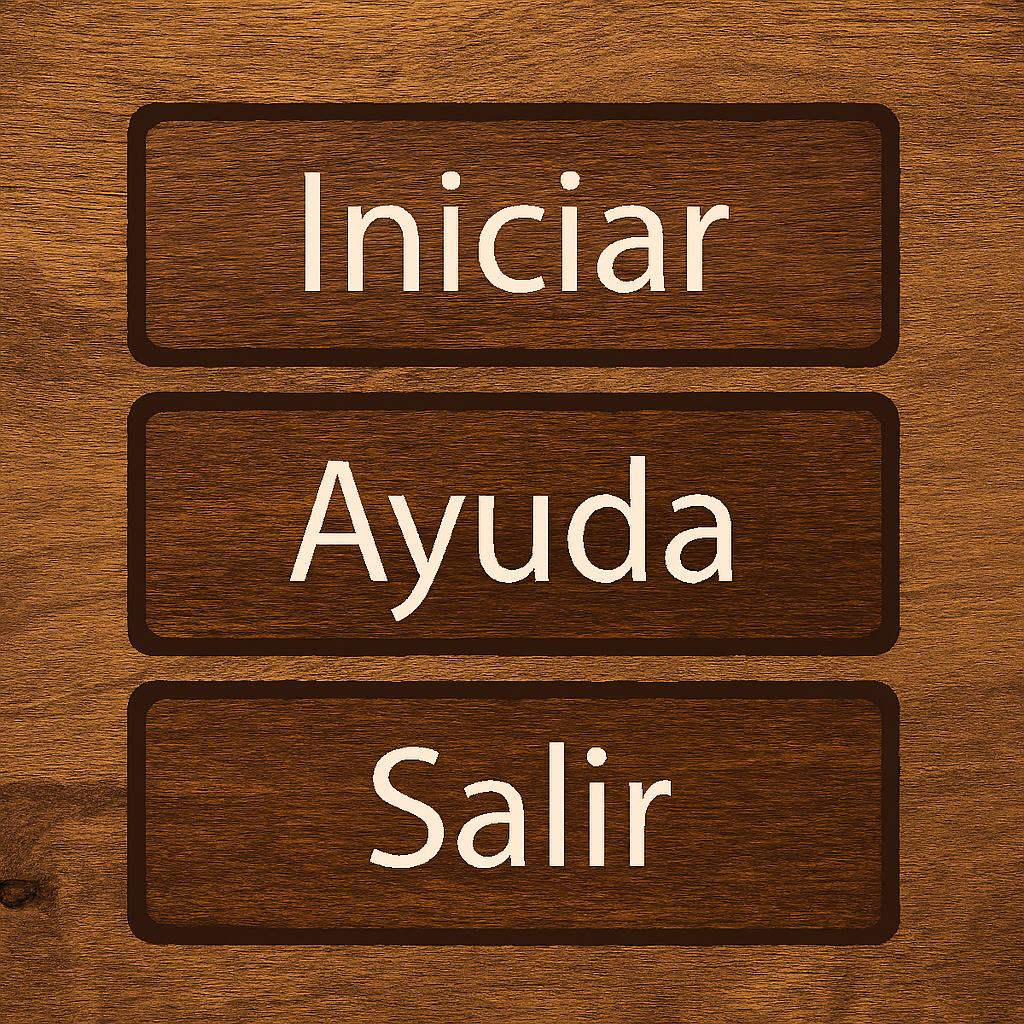
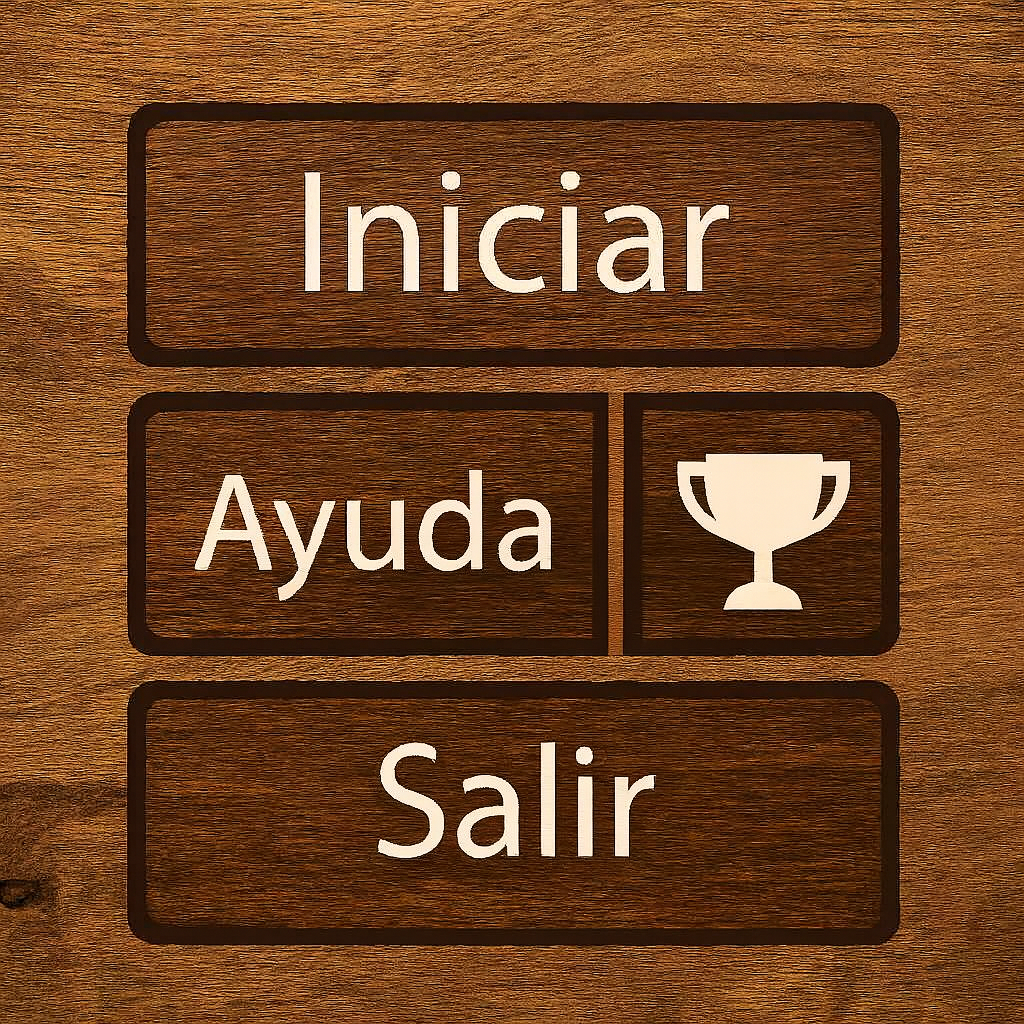
Puntajes, dificultades y fisicas bola especial

diff --git a/Juego.py b/Juego.py
@@ -3,12 +3,29 @@ import random
 import cv2
 import mediapipe as mp
 import numpy as np
+import json
+import os
 
 pygame.init()
 pygame.mixer.init()
 gravedad =2000.0
 rozamiento = 0.5
 pl = []
+pl_e = None  # Bola especial
+dificultad=0
+puntajes = []
+def cargar_datos():
+    if os.path.exists("datos.json"):
+        with open("datos.json", "r") as archivo:
+            return json.load(archivo)
+    else:
+        datos = {
+            "Nombre": [],
+            "Puntaje": [],
+        }
+        with open("datos.json", "w") as archivo:
+            json.dump(datos, archivo, indent=4)
+        return datos
 def menu():
     ancho,alto=600,600
     pantalla=pygame.display.set_mode((ancho,alto))
@@ -26,9 +43,77 @@ def menu():
             mouse_x, mouse_y = pygame.mouse.get_pos()
             if 85 <= mouse_x <= 520 and 65 <= mouse_y <= 205:
                 pygame.time.delay(200)
-                return "juego"
+                return "menu_dificultad"
+            if 370 <= mouse_x <= 520 and 230 <= mouse_y <= 380:
+                pygame.time.delay(200)
+                return "menu_puntajes"
             if 85 <= mouse_x <= 520 and 405 <= mouse_y <= 550:
                 return "salir"
+        pygame.display.flip()
+        clock.tick(60)
+def menu_puntajes():
+    ancho,alto=600,600
+    pantalla=pygame.display.set_mode((ancho,alto))
+    pygame.display.set_caption("Cortar Frutas")
+    fondo = pygame.image.load("Multimedia/Imagenes/Menu_P.png").convert()
+    exit=pygame.image.load("Multimedia/Imagenes/exitRight.png").convert_alpha()
+    fondo = pygame.transform.scale(fondo, (ancho, alto))
+    pantalla.blit(fondo, (0, 0))
+    pantalla.blit(exit, (550, 10))
+    running=True
+    clock = pygame.time.Clock()
+    datos = cargar_datos()
+    fuente = pygame.font.Font(None, 36)
+    for i, (nombre, puntaje) in enumerate(zip(datos["Nombre"], datos["Puntaje"])):
+        texto = fuente.render("{}. {} - {}".format(i+1, nombre, puntaje), True, (0, 0, 0))
+        pantalla.blit(texto, (100, 100 + i * 40))
+    while running:
+        for event in pygame.event.get():
+            if event.type==pygame.QUIT:
+                running=False
+        if pygame.mouse.get_pressed()[0]:
+            mouse_x, mouse_y = pygame.mouse.get_pos()
+            if 85 <= mouse_x <= 520 and 405 <= mouse_y <= 550:
+                pygame.time.delay(200)
+                return "menu"
+            if 560 <= mouse_x <= 595 and 20 <= mouse_y <= 50:
+                pygame.time.delay(200)
+                return "menu"
+        pygame.display.flip()
+        clock.tick(60)
+def menu_dificultad():
+    global dificultad
+    ancho,alto=600,600
+    pantalla=pygame.display.set_mode((ancho,alto))
+    pygame.display.set_caption("Cortar Frutas")
+    fondo = pygame.image.load("Multimedia/Imagenes/Menu_D.png").convert()
+    exit=pygame.image.load("Multimedia/Imagenes/exitRight.png").convert_alpha()
+    fondo = pygame.transform.scale(fondo, (ancho, alto))
+    pantalla.blit(fondo, (0, 0))
+    pantalla.blit(exit, (550, 10))
+    running=True
+    clock = pygame.time.Clock()
+    while running:
+        for event in pygame.event.get():
+            if event.type==pygame.QUIT:
+                running=False
+        if pygame.mouse.get_pressed()[0]:
+            mouse_x, mouse_y = pygame.mouse.get_pos()
+            if 85 <= mouse_x <= 520 and 65 <= mouse_y <= 205:
+                pygame.time.delay(200)
+                dificultad=0
+                return "juego"
+            if 85 <= mouse_x <= 520 and 235 <= mouse_y <= 375:
+                pygame.time.delay(200)
+                dificultad=1
+                return "juego"
+            if 85 <= mouse_x <= 520 and 405 <= mouse_y <= 550:
+                pygame.time.delay(200)
+                dificultad=2
+                return "juego"
+            if 550 <= mouse_x <= 590 and 10 <= mouse_y <= 50:
+                pygame.time.delay(200)
+                return "menu"
         pygame.display.flip()
         clock.tick(60)
 def crear_bola(x, y, vx, vy, r=14):
@@ -38,6 +123,14 @@ def crear_bola(x, y, vx, vy, r=14):
         "vx": float(vx), "vy": float(vy),  # velocidad
         "r": r, "color": color
     })
+def crear_bola_especial(x, y, vx, vy, r=30):
+    global pl_e
+    color = (255, 0, 0)  # Color rojo para la bola especial
+    pl_e = {
+        "x": float(x), "y": float(y),   # posición en float para precisión
+        "vx": float(vx), "vy": float(vy),  # velocidad
+        "r": r, "color": color
+    }
 def actualizar_bolas(dt):
     """Integra la física de todas las bolas en dt segundos."""
     # Rozamiento aplicado como decaimiento exponencial por segundo
@@ -55,7 +148,96 @@ def actualizar_bolas(dt):
         b["y"]  += b["vy"] * dt
 
         r = b["r"]
+def actualizar_bolas_especial(dt):
+    """Integra la física de la bola especial en dt segundos."""
+    # Rozamiento aplicado como decaimiento exponencial por segundo
+    drag = rozamiento ** dt
+    E = pl_e
+    # 1) fuerzas -> aceleraciones: solo gravedad en Y
+    E["vy"] += gravedad * dt        # [m/s] = [m/s^2]*[s]            v = v_0 +a*t
+
+    # 2) rozamiento (reduce gradualmente la velocidad)
+    E["vx"] *= drag
+    E["vy"] *= drag
+
+    # 3) integración de posición
+    E["x"]  += E["vx"] * dt        #[m] = [m/s]*[s]            x = x_0 + vt
+    E["y"]  += E["vy"] * dt
+
+    r = E["r"]
+def guardar_puntaje(pantalla, puntaje):
+    fuente = pygame.font.Font(None, 36)
+    nombre = ""
+    clock = pygame.time.Clock()
+    ingresar = True
+
+    # Dimensiones del modal
+    modal_width, modal_height = 400, 150
+    modal_x = (pantalla.get_width() - modal_width) // 2
+    modal_y = (pantalla.get_height() - modal_height) // 2
+    modal_rect = pygame.Rect(modal_x, modal_y, modal_width, modal_height)
+
+    while ingresar:
+        for event in pygame.event.get():
+            if event.type == pygame.QUIT:
+                ingresar = False
+                return None
+            if event.type == pygame.KEYDOWN:
+                if event.key == pygame.K_RETURN and nombre != "":
+                    ingresar = False
+                    break
+                elif event.key == pygame.K_BACKSPACE:
+                    nombre = nombre[:-1]
+                else:
+                    if len(nombre) < 5 and event.unicode.isprintable():
+                        nombre += event.unicode
+
+        # --- Dibujar el modal ---
+        pantalla.fill((255, 255, 255), special_flags=pygame.BLEND_RGBA_MULT)  # Opcional: oscurece fondo
+        pygame.draw.rect(pantalla, (200, 200, 200), modal_rect)  # fondo del modal
+        pygame.draw.rect(pantalla, (0, 0, 0), modal_rect, 2)  # borde
+
+        # Texto guía
+        texto_guia = fuente.render("Ingresa tu nombre (máx 5):", True, (0, 0, 0))
+        pantalla.blit(texto_guia, (modal_x + 20, modal_y + 20))
+
+        # Texto ingresado
+        texto_nombre = fuente.render(nombre, True, (0, 0, 0))
+        pantalla.blit(texto_nombre, (modal_x + 20, modal_y + 70))
+
+        pygame.display.flip()
+        clock.tick(30)
+
+    # --- Guardar en JSON ---
+    if not os.path.exists("datos.json"):
+        datos = {"Nombre": [], "Puntaje": []}
+    else:
+        with open("datos.json", "r") as f:
+            datos = json.load(f)
+    datos["Nombre"].append(nombre)
+    datos["Puntaje"].append(puntaje)
+    # Ordenar los puntajes de mayor a menor
+    combined = list(zip(datos["Nombre"], datos["Puntaje"]))
+    combined.sort(key=lambda x: x[1], reverse=True)
+    datos["Nombre"], datos["Puntaje"] = zip(*combined)
+    datos["Nombre"] = list(datos["Nombre"])
+    datos["Puntaje"] = list(datos["Puntaje"])
+    with open("datos.json", "w") as f:
+        json.dump(datos, f, indent=4)
+    if len(datos["Nombre"]) > 10:
+        datos["Nombre"] = datos["Nombre"][:10]
+        datos["Puntaje"] = datos["Puntaje"][:10]
 def juego():
+    global pl_e
+    global pl
+    global dificultad
+    global gravedad
+    if dificultad==0:
+        gravedad=2000.0
+    elif dificultad==1:
+        gravedad=4500.0
+    else:
+        gravedad=6500.0
     hay_pelotas= False
     screen=pygame.display.set_mode((600, 600))
     clock=pygame.time.Clock()
@@ -76,14 +258,14 @@ def juego():
     color_linea=(255,0,0)
     cambio_timer = 0
     timer_especial = 0
-    pl_e = None
     puntos=0
-    duracion=60000
+    duracion=10000
     is_pinching = False
     while running:
         dt = clock.tick(120) / 1000.0
         for event in pygame.event.get():
             if event.type==pygame.QUIT:
+                cap.release()
                 running=False
             if event.type==pygame.MOUSEMOTION:
                 #pos_mouse.append(event.pos)
@@ -125,29 +307,54 @@ def juego():
                 else:
                     is_pinching = False
         actualizar_bolas(dt)
+        if pl_e:
+            actualizar_bolas_especial(dt)
         screen.blit(pared, (0, 0))
         screen.blit(exit, (550, 10))
         cambio_timer += clock.get_time()
         timer_especial += clock.get_time()
-        if cambio_timer > 2000:
+        if dificultad==0:
+            limite=2000
+        elif dificultad==1:
+            limite=1500
+        else:
+            limite=1000
+        if dificultad==0:
+            cantidad_pelotas=10
+        elif dificultad==1:
+            cantidad_pelotas=15
+        else:
+            cantidad_pelotas=20
+        if cambio_timer > limite:
             pl.clear()
-            for i in range(10):
+            for i in range(cantidad_pelotas):
                 x = random.randint(30, 570)
                 y = 610
                 vx = 0
-                vy = random.uniform(-1000, -1800)
+                if dificultad==0:
+                    vy = random.uniform(-1500, -1800)
+                elif dificultad==1:
+                    vy = random.uniform(-1800, -2600)
+                else:
+                    vy = random.uniform(-2000, -3000)
                 crear_bola(x, y, vx, vy)
             cambio_timer = 0
             if not hay_pelotas:
                 tiempo_inicio=pygame.time.get_ticks()
                 hay_pelotas = True
-        if timer_especial >= 10000 and not pl_e:
-            pl_e = pygame.Rect(random.randint(30, 570) - 15, random.randint(30, 570) - 15, 30, 30)
+        if timer_especial >= limite*3 and not pl_e:
+            if dificultad==0:
+                vy = random.uniform(-1500, -1800)
+            elif dificultad==1:
+                vy = random.uniform(-1800, -2600)
+            else:
+                vy = random.uniform(-2000, -3000)
+            crear_bola_especial(random.randint(30, 570), 610, 0, vy)
             timer_especial = 0
         for p in pl:
             pygame.draw.circle(screen, p["color"], (int(p["x"]), int(p["y"])), p["r"])
         if pl_e:
-            pygame.draw.rect(screen, (255, 0, 0), pl_e)
+            pygame.draw.circle(screen, pl_e["color"], (int(pl_e["x"]), int(pl_e["y"])), pl_e["r"])
         for pos in pos_mouse:
             if len(pos_mouse)>7:
                 pos_mouse.pop(0)
@@ -165,7 +372,8 @@ def juego():
                     cortar_sound.play()
                     puntos += 1
                     break
-            if pl_e and linea.colliderect(pl_e):
+            rect_b_e = pygame.Rect(pl_e["x"]-pl_e["r"], pl_e["y"]-pl_e["r"], pl_e["r"]*2, pl_e["r"]*2) if pl_e else None
+            if pl_e and linea.colliderect(rect_b_e):
                 pl_e=None
                 cortar_sound.play()
                 puntos += 5
@@ -183,6 +391,7 @@ def juego():
             pygame.time.delay(2000)
             pos_mouse.clear()
             cap.release()
+            guardar_puntaje(screen, puntos)
             return "menu"
         minutos = int(tiempo_restante // 60)
         segundos = int(tiempo_restante % 60)
@@ -203,6 +412,10 @@ def main():
     while True:
         if pantalla_actual == "menu":
             pantalla_actual = menu()
+        elif pantalla_actual == "menu_dificultad":
+            pantalla_actual = menu_dificultad()
+        elif pantalla_actual == "menu_puntajes":
+            pantalla_actual = menu_puntajes()
         elif pantalla_actual == "juego":
             pantalla_actual = juego()
         elif pantalla_actual == "salir":
